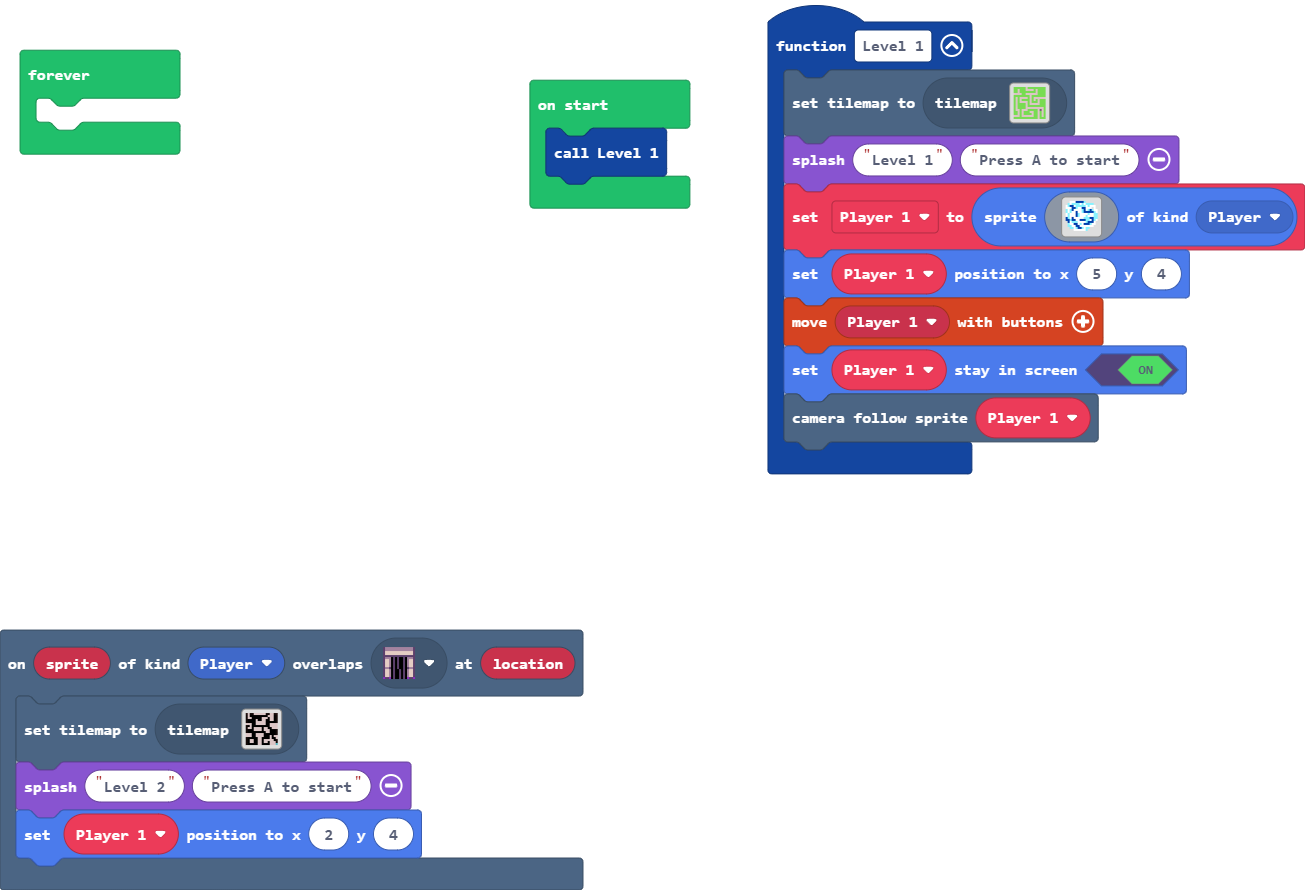
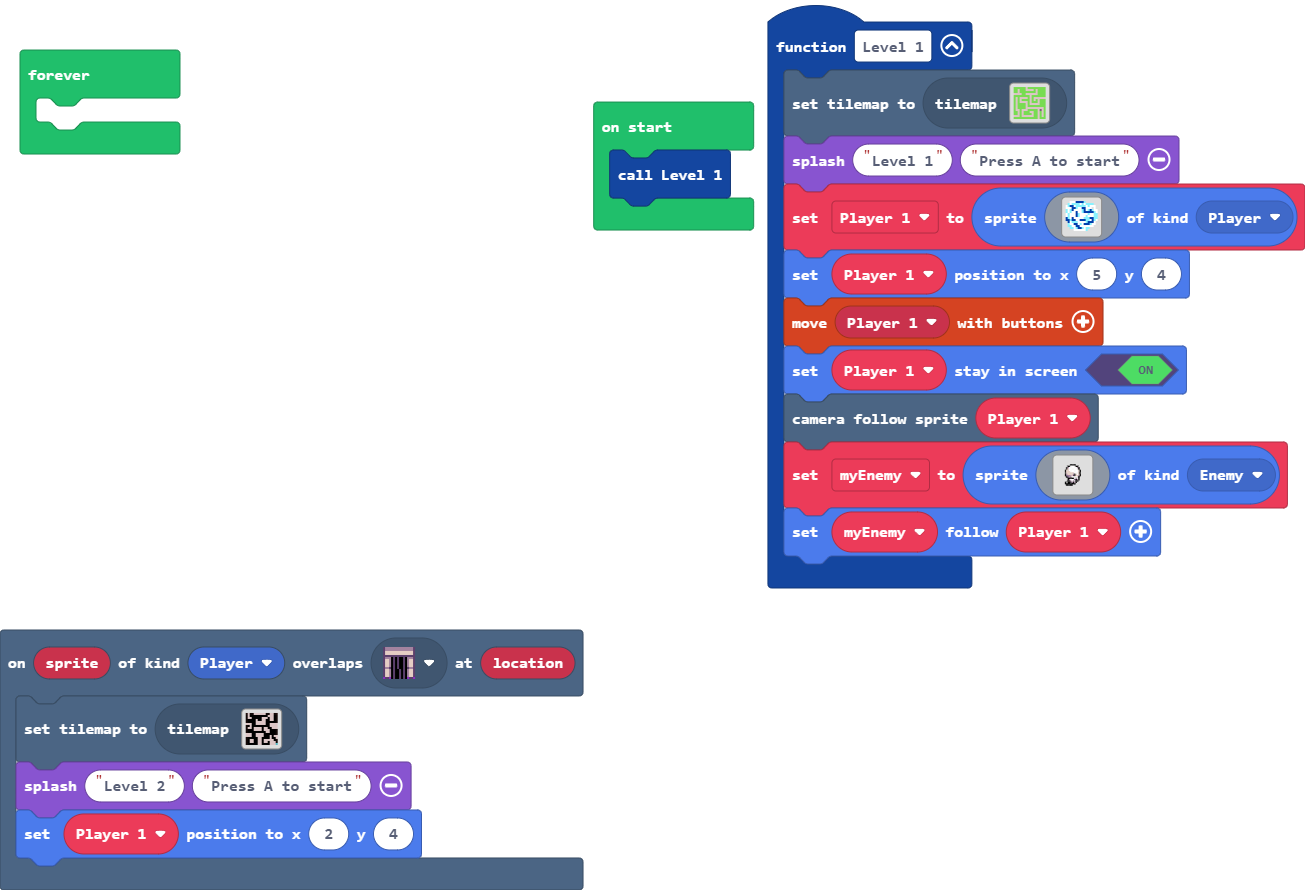
Update main.blocks, main.ts

diff --git a/main.ts b/main.ts
@@ -28,7 +28,35 @@ function Level_1 () {
     controller.moveSprite(Player_1)
     Player_1.setStayInScreen(true)
     scene.cameraFollowSprite(Player_1)
+    myEnemy = sprites.create(img`
+        ........................
+        ........................
+        ........................
+        ........................
+        ..........ffff..........
+        ........ff1111ff........
+        .......fb111111bf.......
+        .......fd1111111f.......
+        ......fdd1111111df......
+        ......fddd111111df......
+        ......fdddddd111df......
+        ......fbddddbfd1df......
+        ......fcbbbdcfddbf......
+        .......fcbb11111f.......
+        ........fffff1b1f.......
+        ........fb111cfbf.......
+        ........ffb1b1ff........
+        ......f.fffbfbf.........
+        ......ffffffff..........
+        .......fffff............
+        ........................
+        ........................
+        ........................
+        ........................
+        `, SpriteKind.Enemy)
+    myEnemy.follow(Player_1)
 }
+let myEnemy: Sprite = null
 let Player_1: Sprite = null
 Level_1()
 forever(function () {
